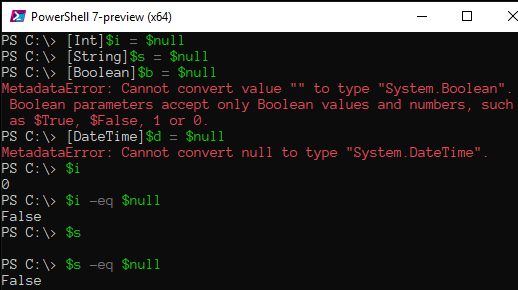
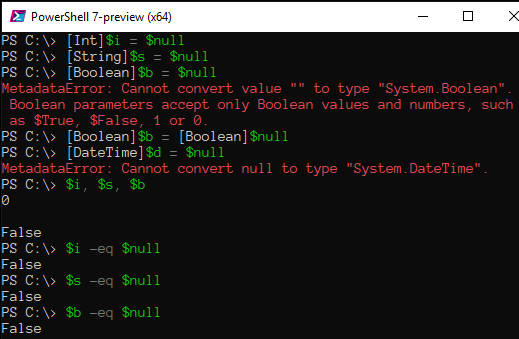
psvariables

Changed region(s): [[0.0, 0.0, 1.0, 0.9931], [0.1853, 0.6517, 0.3089, 0.7448]]

diff --git a/PowerShell/hu-HU/PS_Variables.html b/PowerShell/hu-HU/PS_Variables.html
@@ -1,0 +1,81 @@
+<!doctype html>
+<html lang="hu-HU">
+<head>
+  <meta charset="UTF-8">
+  <meta name="viewport" content="width=device-width, initial-scale=1">
+  <link href="https://fonts.googleapis.com/css?family=Barlow+Semi+Condensed&display=swap" rel="stylesheet">
+  <link href="https://fonts.googleapis.com/css?family=Literata&display=swap" rel="stylesheet">
+  <link href="https://fonts.googleapis.com/css?family=Anonymous+Pro&display=swap" rel="stylesheet">
+  <link rel="stylesheet" href="../Article.css">
+  <script src="../Article.js"></script>
+</head>
+<body>
+<article>
+  <h1>A parancsértelmező alapjellemzői, tulajdonságai</h1>
+  A PowerShell parancsértelmezőnek mint szoftvernek az alapvető jellemzőit
+  leíró adatokat számos automatikus változó, közöttük több konstans hordozza.
+  <h2>A rendszerkörnyezetet jellemző automatikus változók</h2>
+  A lehetséges három platform közül, amelyekre a .NET keretrendszer és a
+  PowerShell parancsértelmező telepíthető, annak a logikai változója lesz
+  IGAZ értékű, amelyiken az elindított parancsértelmező éppen fut.
+  A logikai változók neve: <kbd>$IsLinux</kbd>, <kbd>$IsMacOS</kbd>,
+  <kbd>$IsWindows</kbd>.
+  <figure>
+    <img src="img/Platform data.png"/>
+    <figcaption>Platform data</figcaption>
+  </figure>
+  A .NET keretrendszer része a nyelvi futtatókörnyezet (<i>Common Language
+  Runtime</i>, CLR), amely a köztes nyelvre lefordított PowerShell parancsok
+  végrehajtásáról gondoskodik. Ha a .NET keretrendszer platformfüggetlen,
+  akkor az <kbd>$IsCoreCLR</kbd> logikai változó értéke IGAZ, és ez
+  egyébként a PowerShell 6-os verziójától kezdődően mindig teljesül.
+  <h2>A felhasználói profilt azonosító automatikus változók</h2>
+  A PowerShell parancsértelmezőt futtató felhasználó saját könyvtárának
+  (az operációs rendszer felhasználói profil mappájának) abszolút elérési útját
+  mint szöveges adatot a <kbd>$HOME</kbd> változó tartalmazza.
+  <p>
+  A felhasználó operációs rendszer profiljának területi beállításait a
+  <kbd>$PSCulture</kbd>, nyelvi beállításait a <kbd>$PSUICulture</kbd>
+  változók tükrözik.
+  <figure>
+    <img src="img/User data.png"/>
+    <figcaption>User data</figcaption>
+  </figure>
+  A felhasználó PowerShell profil szkript állományának abszolút elérési útját
+  mint szöveges adatot a <kbd>$PROFILE</kbd> változó tartalmazza: ebben a
+  szriptfájlban kell elhelyezni a PowerShell indításakor automatikusan lefutó
+  parancsokat, tehát itt kell definiálni az induláskor létrehozandó változókat is.
+  <h2>A PowerShell parancssori eszközt jellemző automatikus változók</h2>
+  A PowerShell telepítési könyvtárának abszolút elérési útját mint szöveges adatot
+  a <kbd>$PSHOME</kbd> változó tartalmazza. Az elindított parancsértelmező
+  operációs rendszerbeli folyamatazonosítóját mint 32 bites egész számot a
+  <kbd>$PID</kbd> változóban érhetjük el; a folyamatról részletes leírást
+  kaphatunk a <code>Get-Process -Id $PID | Select *</code> paranccsal.
+  <figure>
+    <img src="img/pwsh process details.png"/>
+    <figcaption>PowerShell process details</figcaption>
+  </figure>
+  A PowerShell eszköz <kbd>$PSVersion</kbd> verziótáblája azonosítja
+  a parancsértelmező kiadását és verzióját, az operációs rendszerrel együtt.
+  A <kbd>$ShellId</kbd> magának a parancsértelmező folyamatnak az azonosítója,
+  amivel a felhasználó a <i>Host</i> gazdaprogram közvetítésével kommunikál.
+  A gazdaprogram tulajdonságait a <kbd>$Host</kbd> változó hordozza &mdash;
+  ennek az automatikus változónak az értékét adja vissza a <kbd>Get-Host</kbd>
+  utasítás is.
+  <figure>
+    <img src="img/PowerShell version table, shell, and host.png"/>
+    <figcaption>PowerShell version table, shell, and host</figcaption>
+  </figure>
+  <nav>
+    <a href="../index.html?locale=hu-HU&article=State_Variables" target="_top"
+     >A PowerShell parancsértelmező működési változói, állapotváltozói</a>
+    <p>
+    <a href="../index.html?locale=hu-HU&article=Environment_Variables" target="_top"
+     >Környezeti változók</a>
+    <p>
+    <a href="https://docs.microsoft.com/en-us/powershell/module/microsoft.powershell.core/about/about_automatic_variables"
+     target="_blank">Az automatikus változók teljes listája és leírása</a>
+  </nav>
+</article>
+</body>
+</html>

diff --git a/PowerShell/hu-HU/Boolean_Constants.html b/PowerShell/hu-HU/Boolean_Constants.html
@@ -14,47 +14,33 @@
   <h1>Logikai értékek</h1>
   Logikai, vagyis <kbd>[Boolean]</kbd> típusú kifejezések lehetséges értékeit
   két konstans képviseli: az IGAZ jelentésű <kbd>$true</kbd>, és a HAMIS
-  jelentésű <kbd>$false</kbd>.
+  jelentésű <kbd>$false</kbd>. Mindkettő <kbd>[PSVariable]</kbd> típusú
+  változóobjektum.
   <figure>
-    <img src="img/The Boolean Constants.png"/>
-    <figcaption>The Boolean Constants</figcaption>
+    <img src="img/Boolean Constants.png"/>
+    <figcaption>Boolean Constants</figcaption>
   </figure>
   A két logikai konstans számként az 1, illetve 0 értékeket képviselik,
-  szöveges adattá alakítva pedig az angol <i>True</i>, illetve <i>False</i>
-
-
-
-  A PowerShell számára minden létező dolog egy meghatározott típusú objektum.
-  A <kbd>$null</kbd> változó nem létező értéke képviseli az objektumok hiányát.
-  Maga a <kbd>$null</kbd> változó az egyetlen <kbd>[NullVariable]</kbd>
-  típusú objektum. Értéke nem módosítható.
+  szövegkonverzióval pedig az angol <i>True</i>, illetve <i>False</i> szavakká
+  alakulnak át.
   <p>
-  Felhasználható
-  <ul>
-    <li>más változók értékének törlésére;
-    <li>paraméterek alapértelmezett értékének törlésére;
-    <li>helykitöltő elemként egy gyűjteményben;
-    <li>helykitöltő argumentumként egy függvényhívásban;
-    <li>parancsok kimenetének elnyelésére, megsemmisítésére.
-  </ul>
-  A PowerShell a nemlétező változókat alapértelmezetten mint nemlétező
-  objektumokat értelmezi, tehát a kifejezésekben mint <kbd>$null</kbd> értéket
-  veszi számításba. A <kbd>Set-PSDebug -Strict</kbd> paranccsal azonban
-  bekapcsolható, hogy a nem létező változókra való hivatkozás hibajelzést okozzon.
-  Ez a viselkedés a <kbd>Set-PSDebug -Off</kbd> paranccsal kikapcsolható.
+  Más típusú adatok logikai értékké alakításakor a <kbd>$null</kbd> konstans,
+  a <kbd>0</kbd> szám és az üres szöveg HAMISSÁ, a többi objektum (amennyiben
+  a konverzió egyáltalán lehetséges) IGAZZÁ válik.
   <figure>
-    <img src="img/Set-PSDebug -Strict.png"/>
-    <figcaption>Set-PSDebug -Strict</figcaption>
+    <img src="img/Boolean conversions.png"/>
+    <figcaption>Boolean conversions</figcaption>
   </figure>
-  A <kbd>$null</kbd> értéke számként <kbd>0</kbd>, szövegként üres <kbd>''</kbd>,
-  logikailag pedig HAMIS értéket képvisel. Önmagán kívül semmivel sem egyenlő.
+  Logikai változót csak a logikai értékek, illetve az 1 vagy 0 számok
+  hozzárendelésével lehet létrehozni; más típusú objektum vagy a <kbd>$null</kbd>
+  hozzárendelését csak közbevetőleges konverzióval lehet megoldani.
   <figure>
-    <img src="img/Basic conversions of $null.png"/>
-    <figcaption>Basic conversions of $null</figcaption>
+    <img src="img/Boolean assignment.png"/>
+    <figcaption>Boolean assignment</figcaption>
   </figure>
   <nav>
-    <a href="../index.html?locale=hu-HU&article=Automatic_Variables" target="_top"
-      >Preferencia változók</a>
+    <a href="../index.html?locale=hu-HU&article=Boolean_Constants" target="_top"
+      >A PowerShell parancsértelmező alapjellemzőit hordozó változók</a>
     <p>
     <a href="https://docs.microsoft.com/en-us/powershell/module/microsoft.powershell.core/about/about_automatic_variables"
      target="_blank">Az automatikus változók teljes listája és leírása</a>

diff --git a/PowerShell/hu-HU/Null_Variable.html b/PowerShell/hu-HU/Null_Variable.html
@@ -48,7 +48,8 @@
   Szöveges változókhoz rendelve a <kbd>$null</kbd> üres szöveggé változik,
   tehát a szöveges változó értékét sem lehet egyszerűen törölni.
   Annak ellenére, hogy kifejezésekben van logikai értéke, érdekes módon
-  logikai változókhoz nem lehet a <kbd>$null</kbd> értéket hozzárendelni.
+  logikai változókhoz nem lehet a <kbd>$null</kbd> értéket közvetlenül
+  hozzárendelni, de explicit konverzióval már igen.
   <figure>
     <img src="img/Assignment of $null to strongly typed variables.png"/>
     <figcaption>Assignment of $null to strongly typed variables</figcaption>

diff --git a/PowerShell/hu-HU/User_Variables.html b/PowerShell/hu-HU/User_Variables.html
@@ -80,7 +80,9 @@
   változó használhatatlanná válik.
   <p>
   A <kbd>Copy-Item</kbd> parancsmag helyett egyszerű értékadással szoktunk
-  változókat másolni, aminek a működése megegyezik a parancsmag működésével:
+  változókat másolni, aminek a működése megegyezik az
+  <a href="../index.html?locale=hu-HU&article=Alias_Provider" target="_top"
+  >álneveknél</a> leírtakkal:
   a másolat nem kapja meg az eredeti változónak sem a <kbd>.Description</kbd>,
   sem az <kbd>.Option</kbd>, sem a <kbd>.Visibility</kbd> tulajdonságát;
   mindössze az értéke (<kbd>.Value</kbd>) másolódik át.
